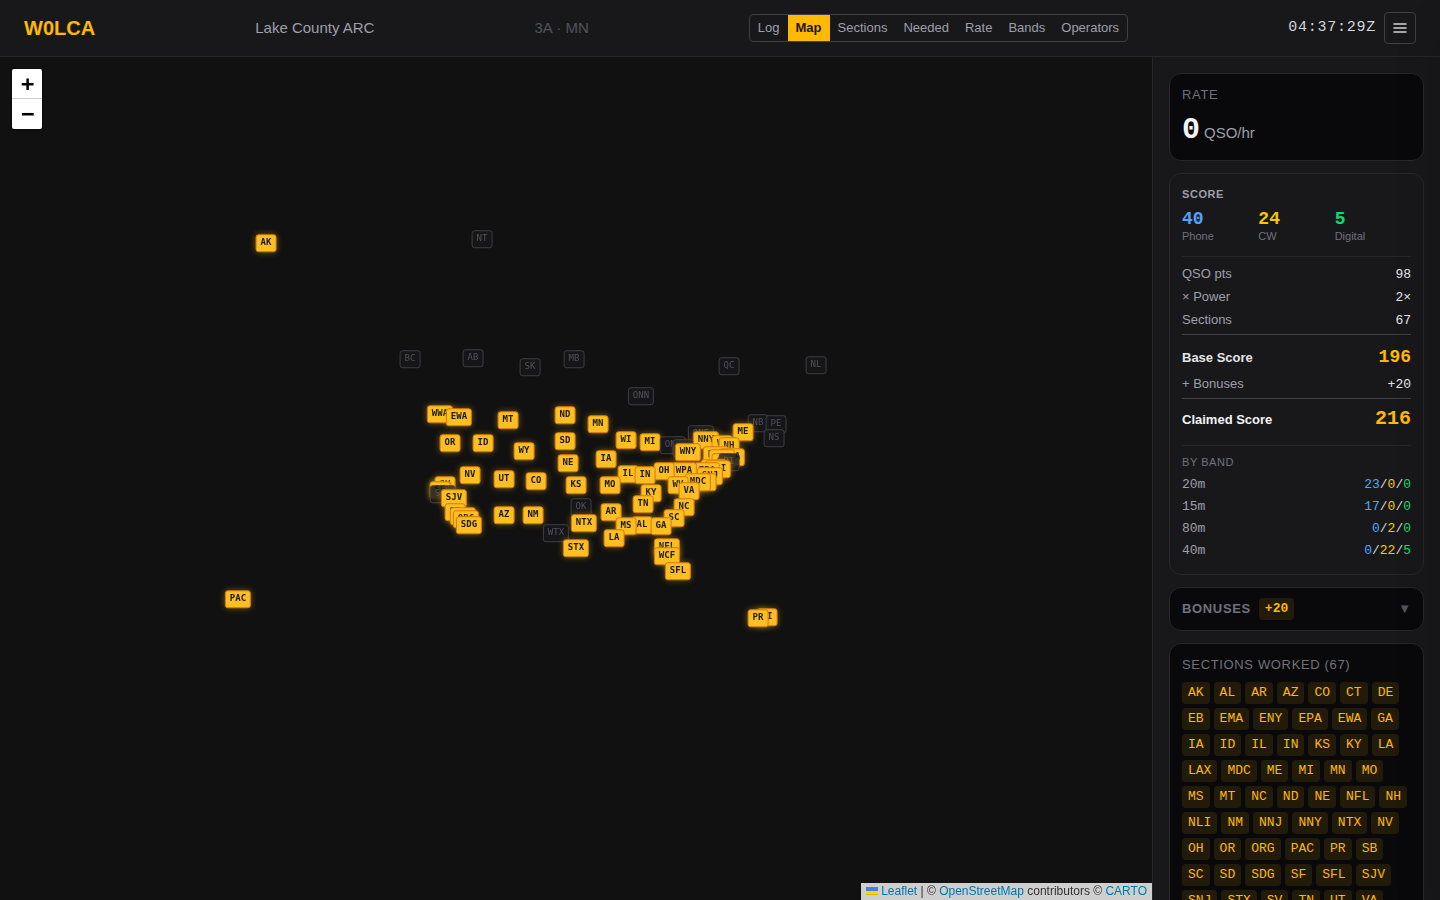
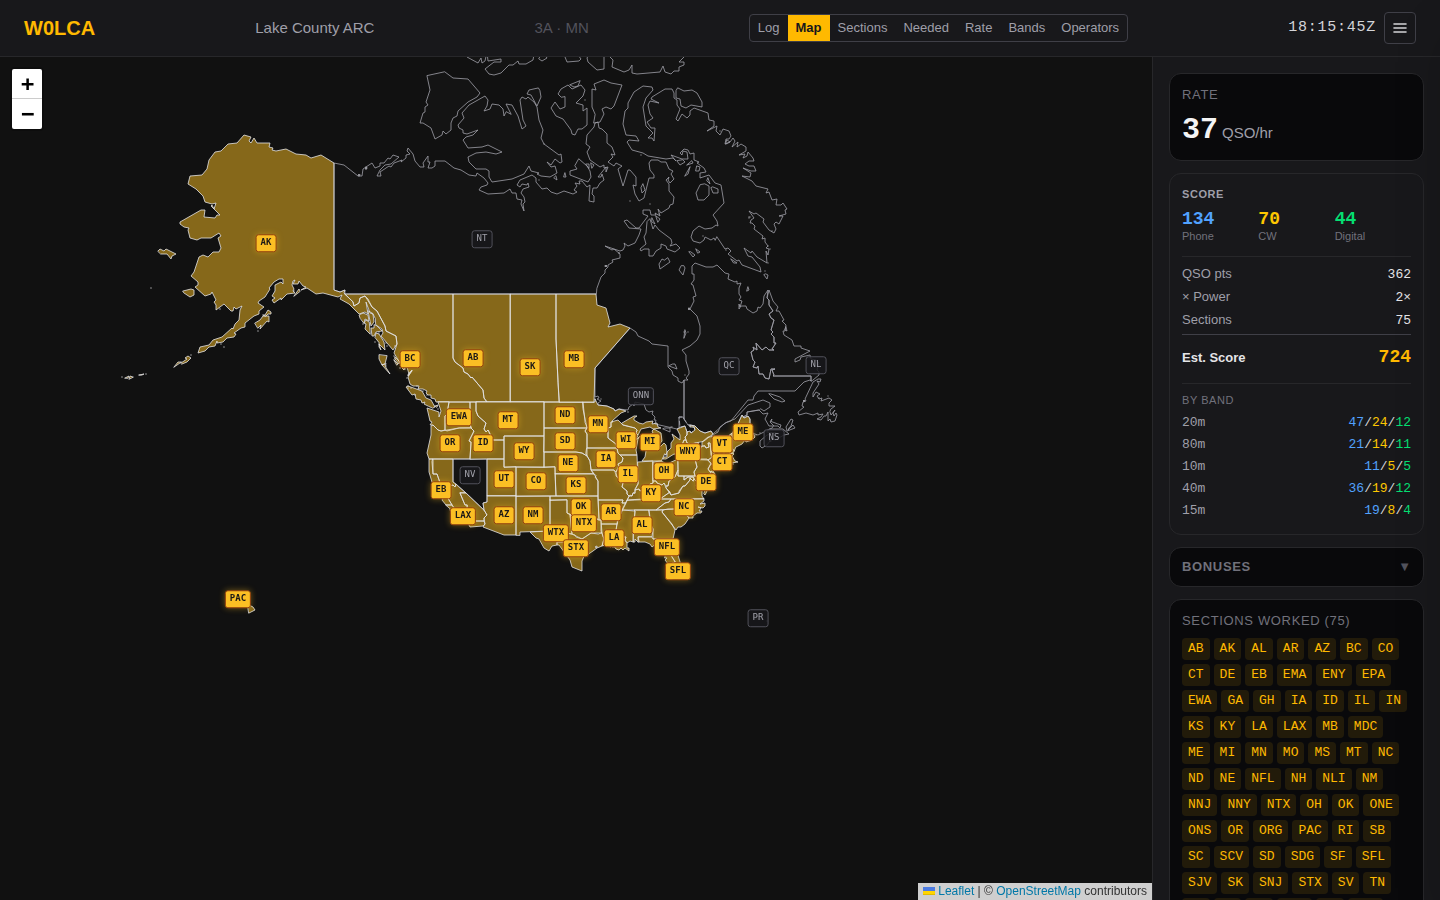
Recapture the dashboard screenshot against a real server
The committed dashboard.png was further out of date than this PR made it.
It predates the section boundaries entirely -- captured 2026-09-05, a day
before those landed -- so it showed bare label boxes on an empty
background with no filled sections at all. Its attribution line still
read "© CARTO", from the tile provider replaced when CARTO started
returning "API key required" rendered into the tile image. And it read
0 QSO/hr, which was never the app being wrong: it is what the rate panel
shows when every contact in the fixture carries the same timestamp.

This one is captured against the built standalone server on a real
PostgreSQL 16, with the log seeded through the API so scoring, dupes and
section counting are computed the way an event computes them. It shows
the filled sections, the two border tiers and the placed labels this PR
introduces, at the same 1440x900 as the image it replaces.

scripts/seed-demo.mjs is that fixture, committed so the next capture is
reproducible rather than reconstructed. AGENTS.md names two artefacts
that have shipped in screenshots before, and both are things a fixture
written for the database rather than for the screen gets wrong:

Timestamps. Posting 260 contacts in a loop stamps them within two
seconds. The first attempt here spread created_at and changed nothing on
screen, because the rate panel and the log read datetime_utc -- the rate
still reported 240 QSO/hr, which was the size of the log, not a rate.
[…]

diff --git a/docs/development.md b/docs/development.md
@@ -148,6 +148,23 @@ prerequisite-checking path has reappeared below it. That last one is the drift
 this design can have: a path that quietly supports what the script says it
 does not.
 
+**`scripts/seed-demo.mjs`** is not a test either: it is the fixture the
+documentation screenshots are captured against. Point it at a running server
+and it creates a Field Day event and logs a weekend into it through the real
+API, so scoring, dupes and section counting are computed the way an event
+computes them.
+
+What it is careful about is the part a fixture written for the database gets
+wrong. Posting 260 contacts in a loop stamps them all within two seconds, so
+the rolling-hour rate panel reports the whole log instead of a rate — and it is
+`datetime_utc` that panel and the log read, not `created_at`, so spreading only
+the audit stamp fixes nothing visible. Cycling bands with a fixed stride gives
+every band an identical count, which reads as synthetic at a glance. Operators
+get presence rows so the panels fed by presence show a live state. The section
+list stops short of a clean sweep, because the gaps are what the Needed view
+and the map's unworked fill are for. It is seeded deterministically, so a
+re-taken screenshot differs only where the app changed.
+
 **`scripts/test-map-labels.cjs`** covers which section labels the map draws at
 which zoom. At the default zoom 54 of the 85 labels overlapped another one, so
 `lib/mapLabels.ts` keeps a label only when its box clears the ones already

diff --git a/docs/operating.md b/docs/operating.md
@@ -256,7 +256,7 @@ through it, Enter opens an entry, and focus returns to **☰** when it closes.
 
 ## The dashboard
 
-![The dashboard on the Map tab: sections worked plotted across North America, with the view tabs and the menu button in the header, and live rate, claimed score and the sections list down the right](images/dashboard.png)
+![The dashboard on the Map tab: worked sections filled amber across North America with their boundaries drawn, unworked ones left as outlines, and live rate, claimed score and the sections list down the right](images/dashboard.png)
 
 A separate read-only view for a second screen. It opens on the **Log**:
 

diff --git a/README.md b/README.md
@@ -95,7 +95,7 @@ date-filtered ADIF slices.
 <table>
 <tr>
 <td width="50%">
-  <img src="docs/images/dashboard.png" alt="Live dashboard: section map, view tabs and menu button, with live rate, claimed score and sections worked down the right"><br>
+  <img src="docs/images/dashboard.png" alt="Live dashboard: worked sections filled on the section map, with live rate, claimed score and sections worked down the right"><br>
   <sub>Live dashboard — section map, score, and every operator's rate on a second screen</sub>
 </td>
 <td width="50%">
